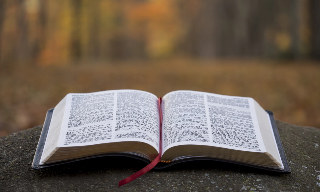
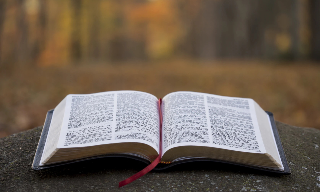
주보 썸네일 이미지 교체

diff --git a/components/BulletinCard.jsx b/components/BulletinCard.jsx
@@ -31,9 +31,9 @@ export default function BulletinCard({ id, content }) {
 
   return (
     <Link href={`/bulletins/${id}`}>
-      <a>
-        <div className="border border-slate-900/5 dark:border-0 dark:ring-1 rounded-2xl shadow place-self-center overflow-hidden">
-          <div className="relative -m-1 h-48 w-80">
+      <a className="flex justify-center">
+        <div className="border w-80 border-slate-900/5 dark:border-0 dark:ring-1 rounded-2xl shadow place-self-center overflow-hidden">
+          <div className="relative h-48 w-full overflow-hidden">
             <Image
               src={image.src}
               alt={image.alt}
